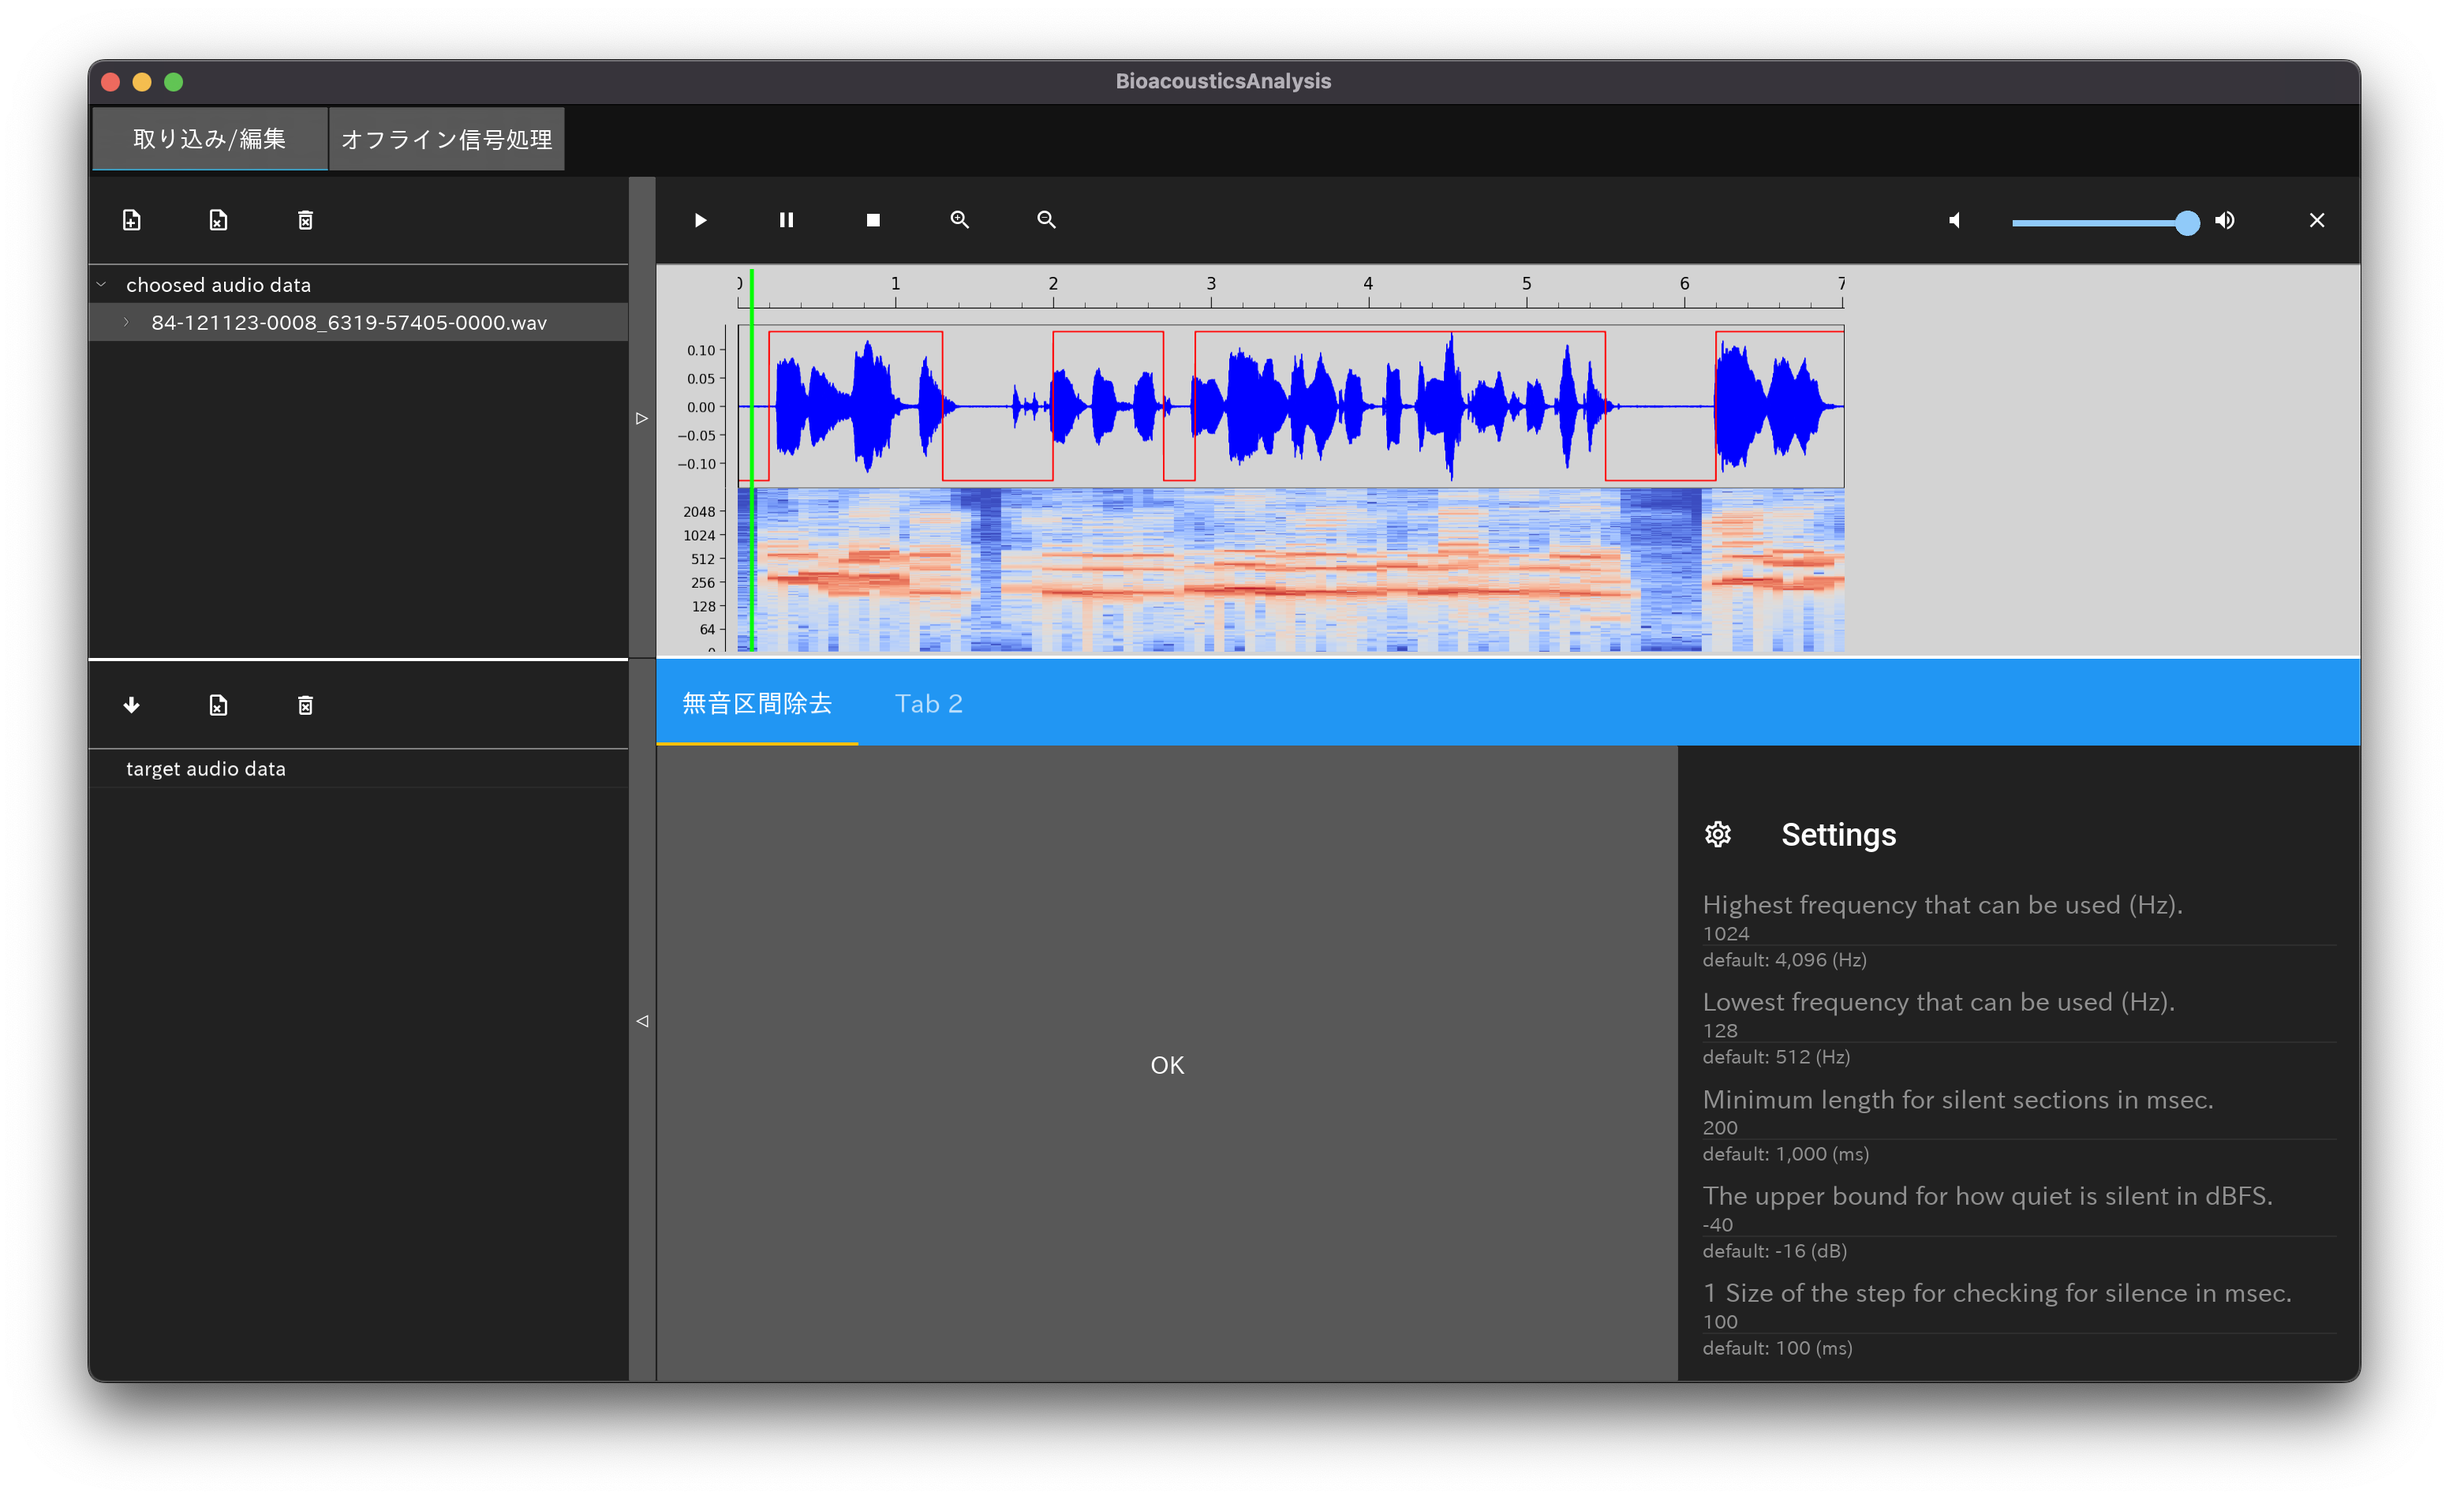
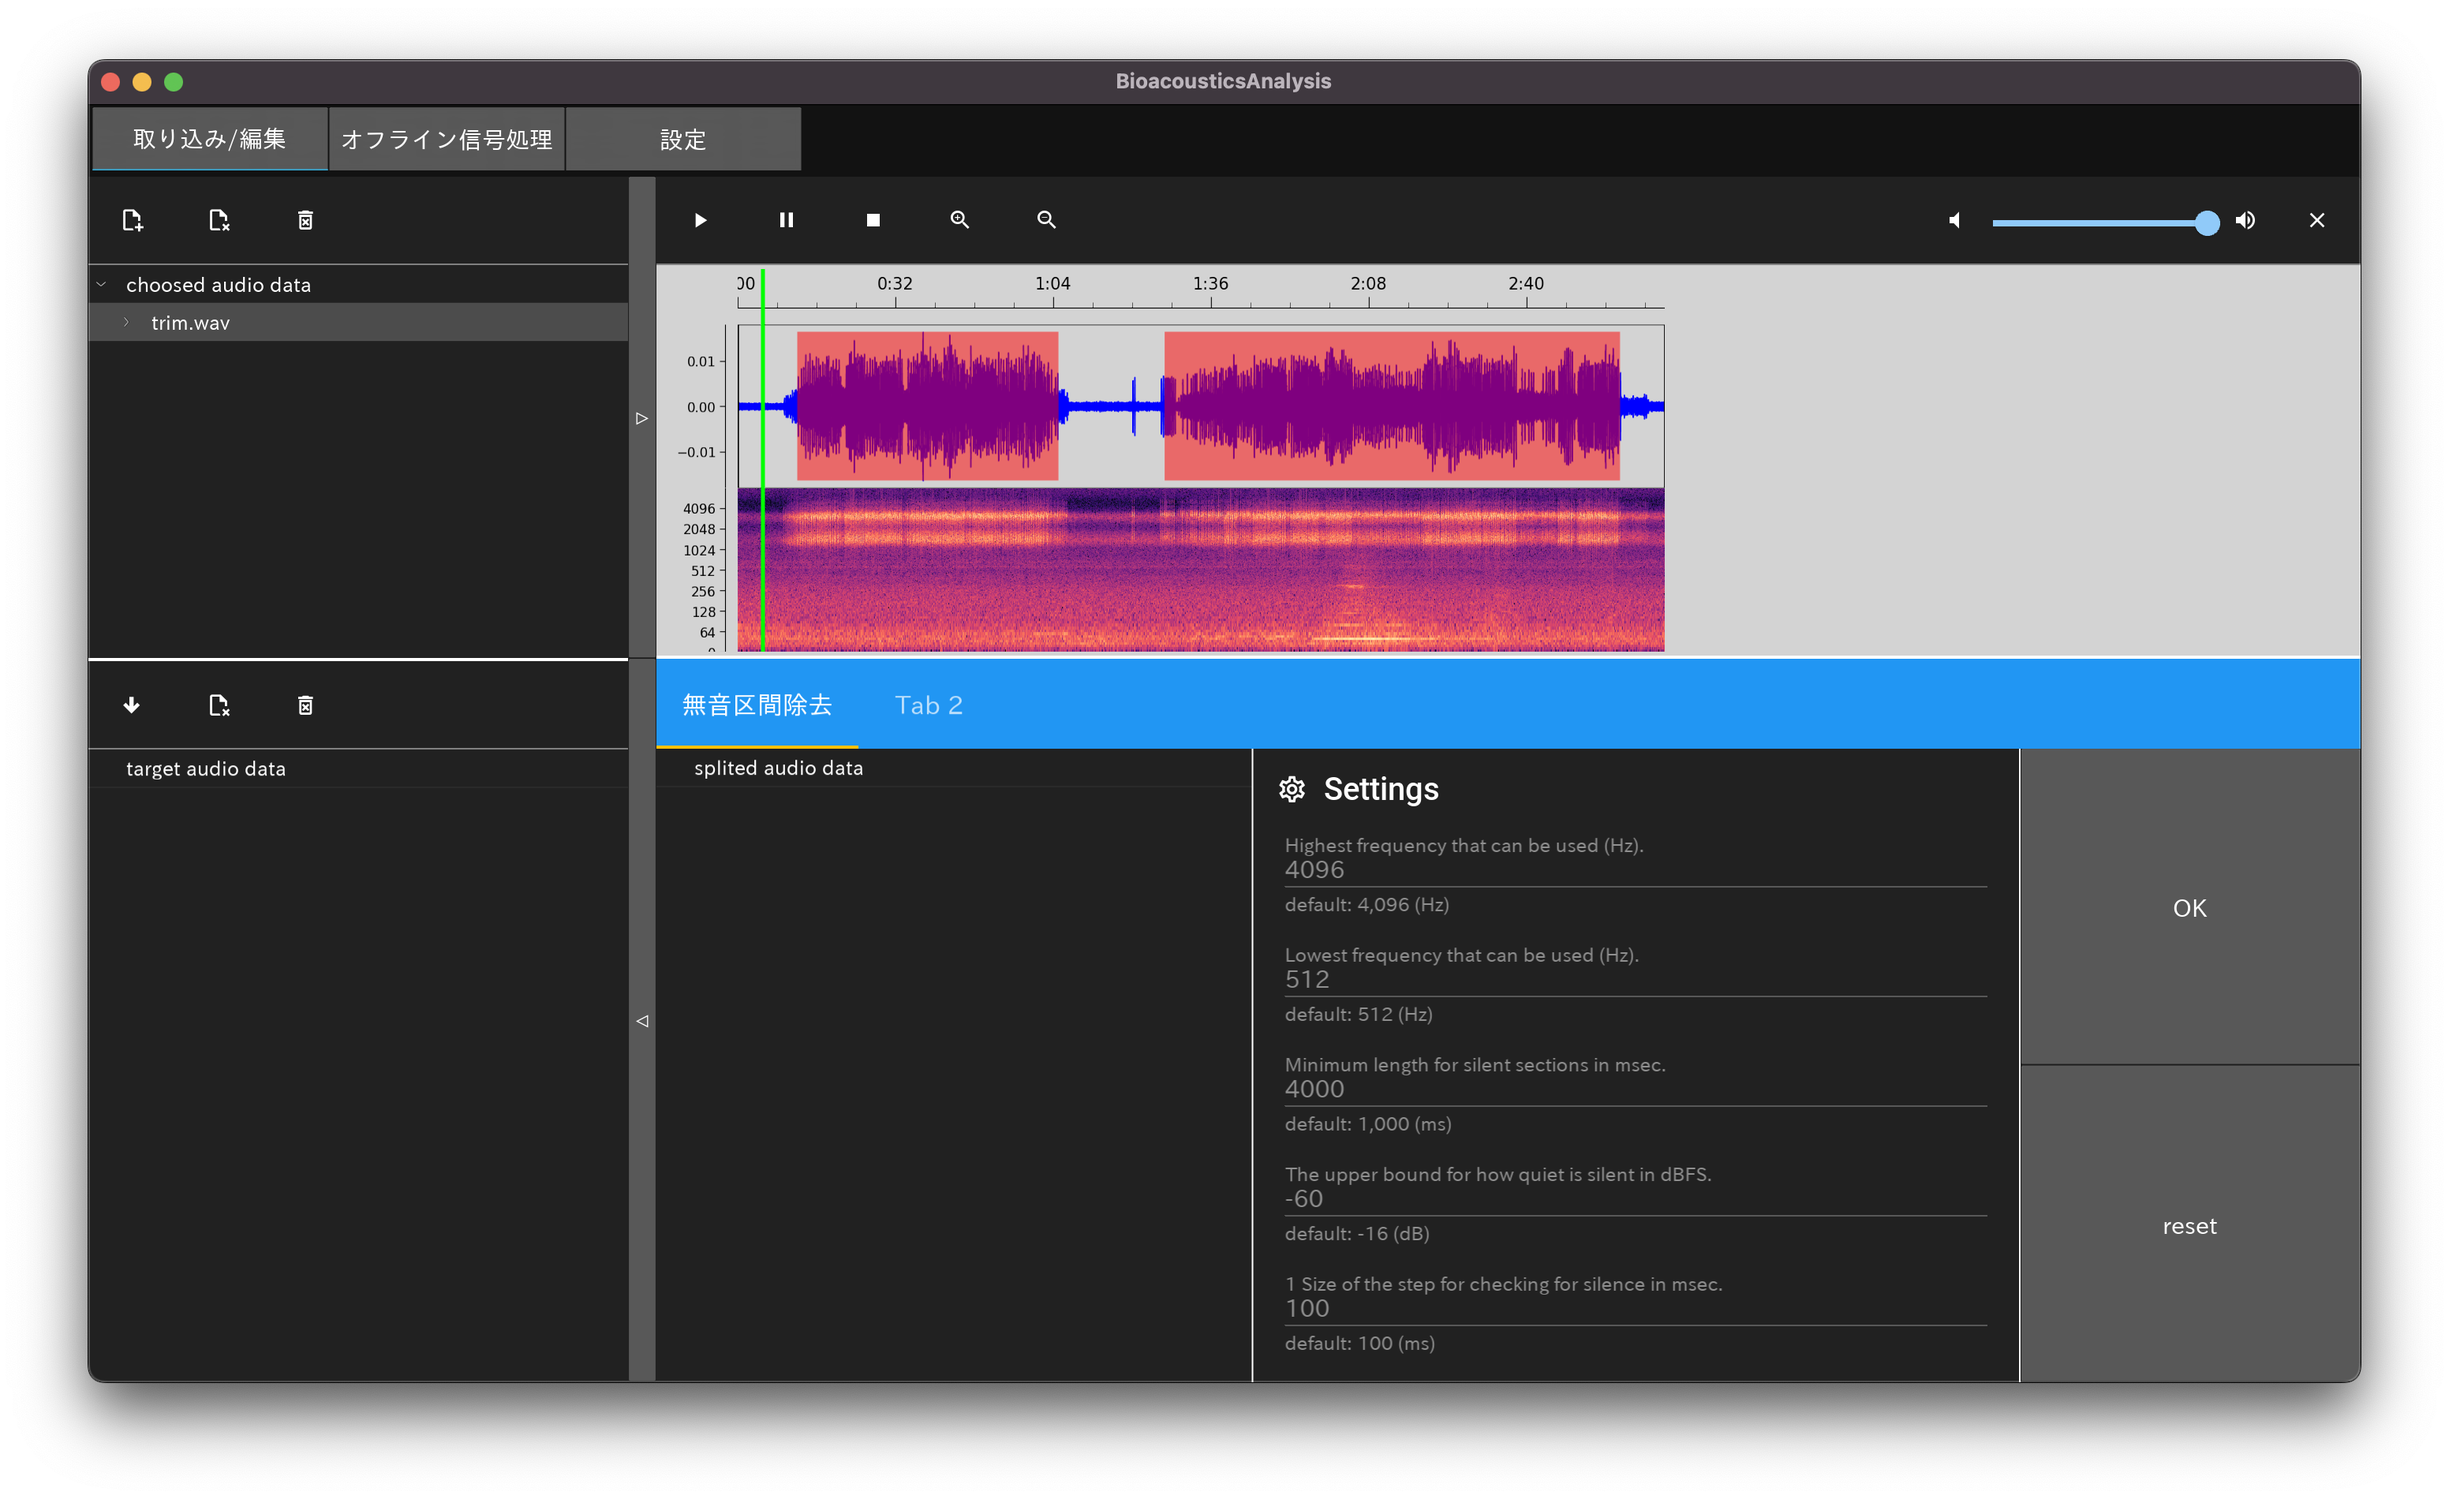
Update sample image of readme

diff --git a/app/gui/edit_container.py b/app/gui/edit_container.py
@@ -67,8 +67,6 @@ class RemovingSilenceTab(Tab):
             'silence_thresh': float(self.ids.silence_thresh.text),
             'seek_step': int(self.ids.seek_step.text),
         }
-        print(freq_dict)
-        print(args_dict)
 
         audio_detail = self.parent.parent.parent.parent.parent.parent
         working_container = audio_detail.parent.parent
@@ -107,3 +105,19 @@ class RemovingSilenceTab(Tab):
             facecolor='r', alpha=.5
         )
         audio_timeline.fig_wave.canvas.draw()
+
+    def reset_button_clicked(self):
+        audio_detail = self.parent.parent.parent.parent.parent.parent
+        working_container = audio_detail.parent.parent
+        audio_timeline = working_container.ids.audio_display.ids.audio_timeline
+        fig_wave = audio_timeline.fig_wave
+
+        if not fig_wave:
+            return None
+
+        ax_wave = fig_wave.axes[0]
+
+        if len(ax_wave.collections)>1:
+            ax_wave.collections[-1].remove()
+
+        fig_wave.canvas.draw()
